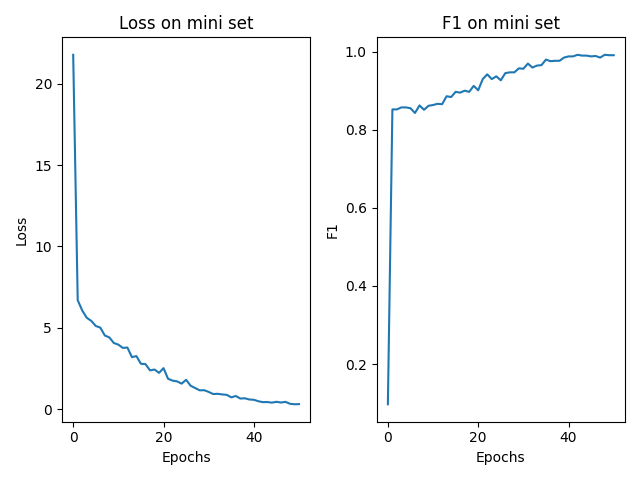
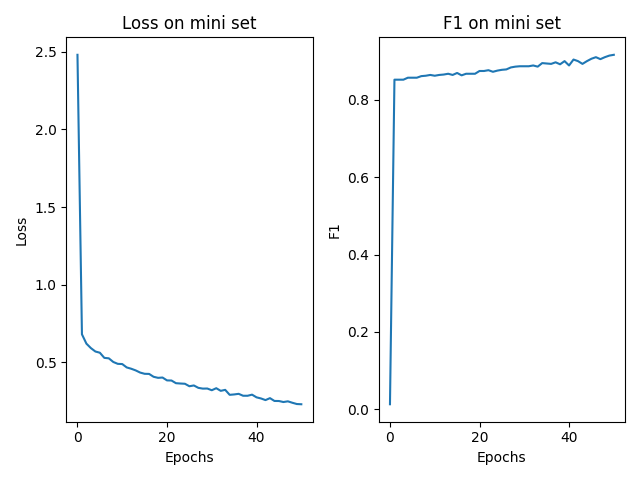
Softmax added

diff --git a/model/nerc.py b/model/nerc.py
@@ -160,6 +160,112 @@ class CNNbLSTMCRF(nn.Module):
         return self.crf.decode(emissions)
 
 
+class CNNbLSTMSoftmax(nn.Module):
+    """
+    CNN:
+    (batch_size, 1, char_emb_size, max_word_len)
+     || convolution
+     \/
+    (batch_size, char_repr_size, 1, max_word_len)
+     || max pooling
+     \/
+    (batch_size, char_repr_size, 1, 1)
+
+    LSTM:
+    (batch_size, char_repr_size + token_emb_size)
+     ||  
+     \/
+    (batch_size, 2 * hidden_size)
+
+    Softmax:
+    (batch_size, 2 * hidden_size)
+     || softmax 
+     \/
+    (batch_size)
+    """
+    def __init__(self, char_to_idx, tok_to_idx, tag_to_idx, token_vecs, char_emb_size=30, char_repr_size=60, 
+                 token_emb_size=100, lstm_hidden_size=200, max_word_len=20, sent_len=10, dropout_rate=0.5, 
+                 break_simmetry=True):
+        super(CNNbLSTMSoftmax, self).__init__()
+
+        self.init_embeddings(len(char_to_idx), char_emb_size, len(tok_to_idx), token_emb_size, token_vecs)
+
+        self.conv = nn.Conv2d(in_channels=1, 
+                              out_channels=char_repr_size, 
+                              kernel_size=(3, char_emb_size),
+                              padding=(1, 0))
+        nn.init.xavier_uniform_(self.conv.weight)
+        nn.init.zeros_(self.conv.bias)
+
+        self.max_pool = nn.MaxPool2d(kernel_size=(1, max_word_len))
+
+        self.inp_dropout = nn.Dropout(p=dropout_rate)
+        self.lstm = nn.LSTM(token_emb_size + char_repr_size, lstm_hidden_size, bidirectional=True, batch_first=True)
+        self.outp_dropout = nn.Dropout(p=dropout_rate)
+
+        for names in self.lstm._all_weights:
+            for name in filter(lambda n: "bias" in n,  names):
+                bias = getattr(self.lstm, name)
+                if not break_simmetry:
+                    nn.init.zeros_(bias)
+                else:
+                    torch.nn.init.sparse_(bias.reshape(bias.size()[0], 1), sparsity=0.5)
+
+                # setting forget gates biases to 1.0
+                n = bias.size(0)
+                start, end = n // 4, n // 2
+                bias.data[start:end].fill_(1.)
+
+            for name in filter(lambda n: "weight" in n,  names):
+                weight = getattr(self.lstm, name)
+                nn.init.xavier_uniform_(weight)
+
+        self.hidden2emissions = nn.Linear(lstm_hidden_size * 2, len(tag_to_idx))
+        nn.init.xavier_uniform_(self.hidden2emissions.weight)
+        nn.init.zeros_(self.hidden2emissions.bias)
+
+        self.loss_function = nn.CrossEntropyLoss()
+
+    def forward(self, chars, toks):
+        """
+        chars: (batch_size, num_chars) 
+        toks: (batch_size)
+        """
+        xc = self.char_embs(chars)
+        xc = torch.unsqueeze(xc, 1)
+        xc = self.conv(xc)
+        xc = torch.squeeze(xc)
+        xc = self.max_pool(xc)
+        xc = torch.squeeze(xc)
+
+        xt = self.tok_embs(toks)
+
+        x = torch.cat([xt, xc], dim=1)
+        x = torch.unsqueeze(x, 0)
+        x = self.inp_dropout(x)
+        x, _ = self.lstm(x)
+        x = self.outp_dropout(x)
+
+        x = torch.squeeze(x)
+
+        x = self.hidden2emissions(x)
+
+        return x
+
+    def init_embeddings(self, num_chars, char_emb_size, voc_size, token_emb_size, token_vecs):
+        self.char_embs = nn.Embedding(num_chars, char_emb_size)
+        self.tok_embs = nn.Embedding(voc_size, token_emb_size)
+
+        nn.init.kaiming_uniform_(self.char_embs.weight)
+        self.tok_embs.load_state_dict({"weight": token_vecs})
+
+    def loss(self, emissions, labels):
+        return self.loss_function(emissions, labels.view(-1))
+
+    def decode(self, emissions):
+        return torch.argmax(emissions, dim=1)
+
+
 class CNNCRF(nn.Module):
     """
     Subnet of CNNbLSTMCRF

diff --git a/train.py b/train.py
@@ -1,6 +1,6 @@
 from utils.memory_management import limit_memory, load_obj, save_obj
 from utils.plotter import plot_mini
-from model.nerc import CNNbLSTMCRF, CNNCRF, bLSTMCRF, OnlyCRF, Data, collate_fn
+from model.nerc import CNNbLSTMCRF, CNNCRF, bLSTMCRF, OnlyCRF, CNNbLSTMSoftmax, Data, collate_fn
 
 from math import sqrt
 from torch.utils.data import DataLoader
@@ -37,7 +37,7 @@ if __name__ == '__main__':
     limit_memory(7 * 1024 * 1024 * 1024)
 
     parser = argparse.ArgumentParser()
-    parser.add_argument("part", choices=["full", "CNN", "LSTM", "CRF"], default="full")
+    parser.add_argument("part", choices=["full", "CNN", "LSTM", "CRF", "softmax"], default="full")
     parser.add_argument("--mini", action='store_true')
     parser.add_argument("--info", action='store_true')
 
@@ -80,6 +80,10 @@ if __name__ == '__main__':
     if args.part == "CRF":
         print("Initializing CRF")
         model = OnlyCRF(char_to_idx, tok_to_idx, tag_to_idx, token_vecs)
+
+    if args.part == "softmax":
+        print("Initializing CNNbLSTMSoftmax")
+        model = CNNbLSTMSoftmax(char_to_idx, tok_to_idx, tag_to_idx, token_vecs)
 
     print("Trainable weights:")
     for name, param in model.named_parameters():

diff --git a/evaluate.py b/evaluate.py
@@ -28,7 +28,11 @@ def evaluate_model(model, dataloader):
             total_loss += loss
             total_batches += 1
 
-            predicted_labels += model.decode(emissions)[0]
+            try:
+                predicted_labels += model.decode(emissions)[0]
+            except Exception:
+                predicted_labels += model.decode(emissions).tolist()
+
             labels += lbls.detach().tolist()
 
         final_loss = total_loss / total_batches
